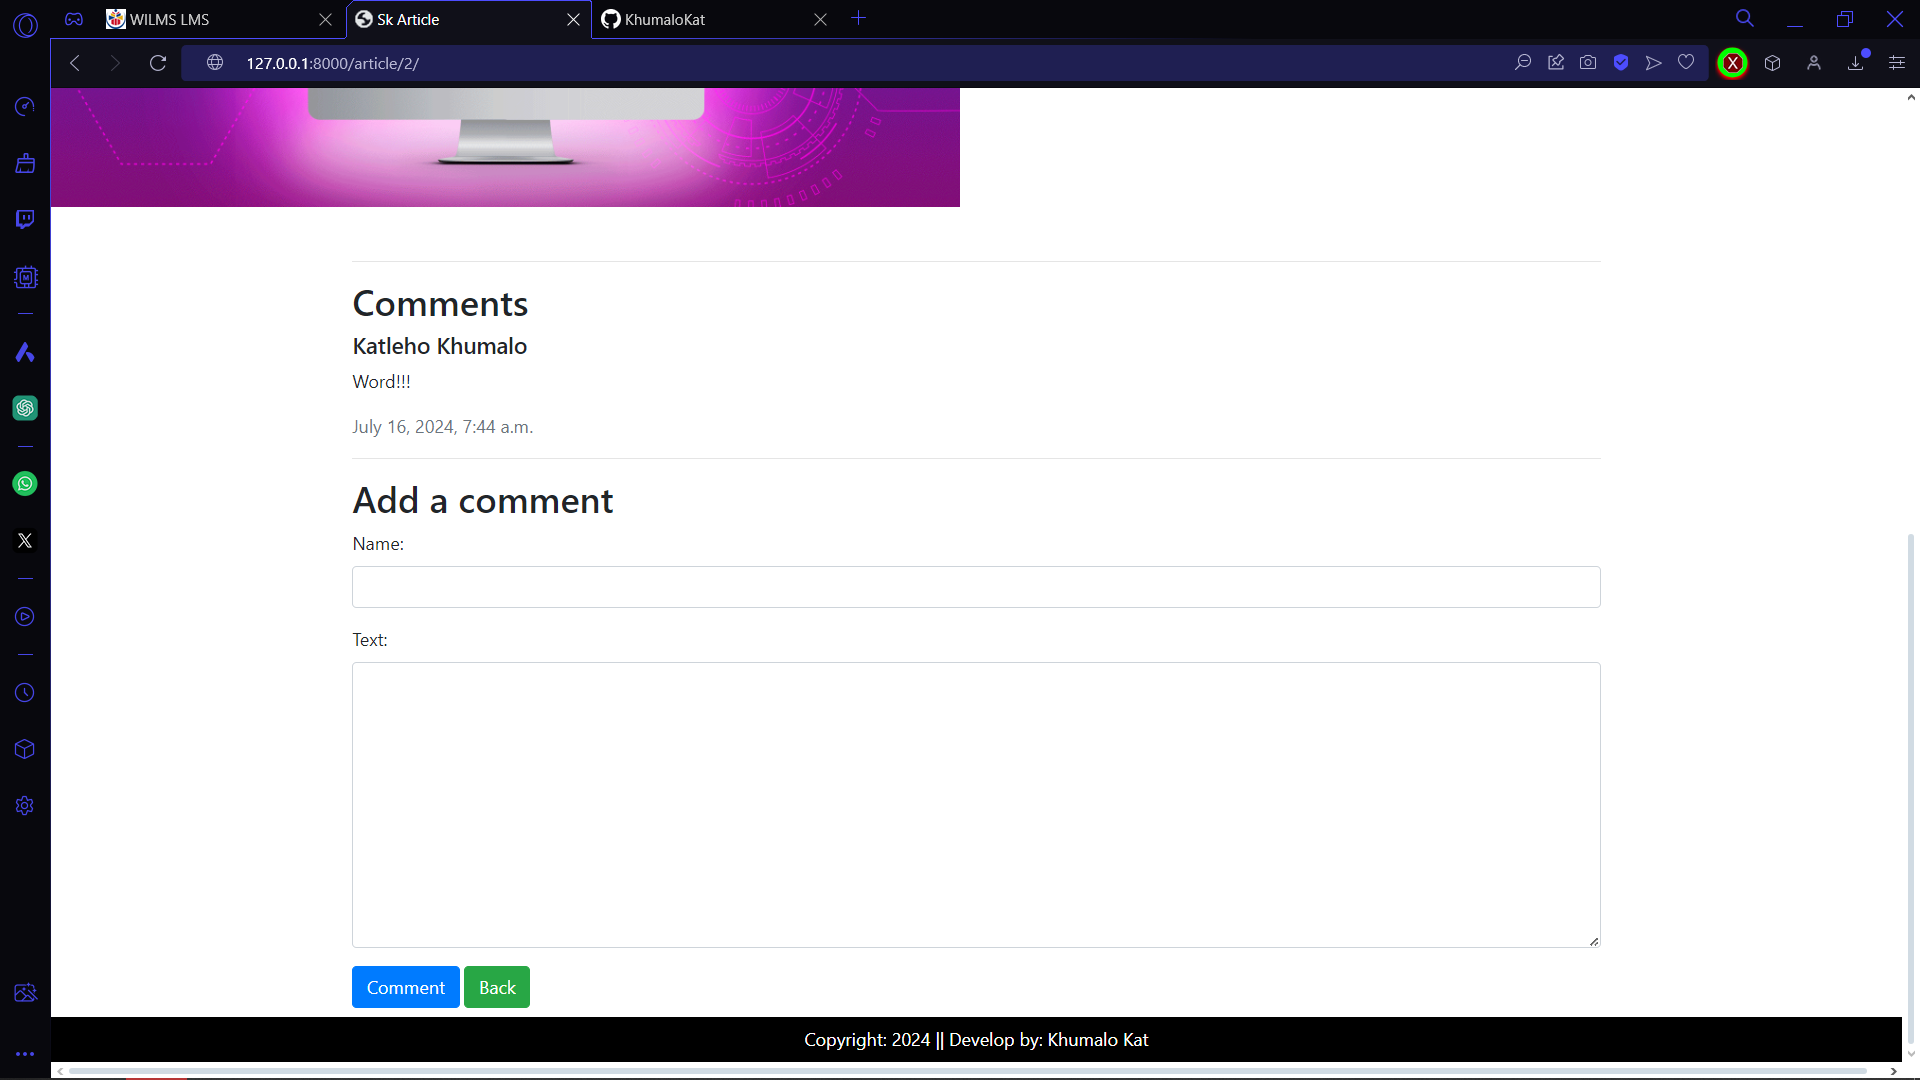
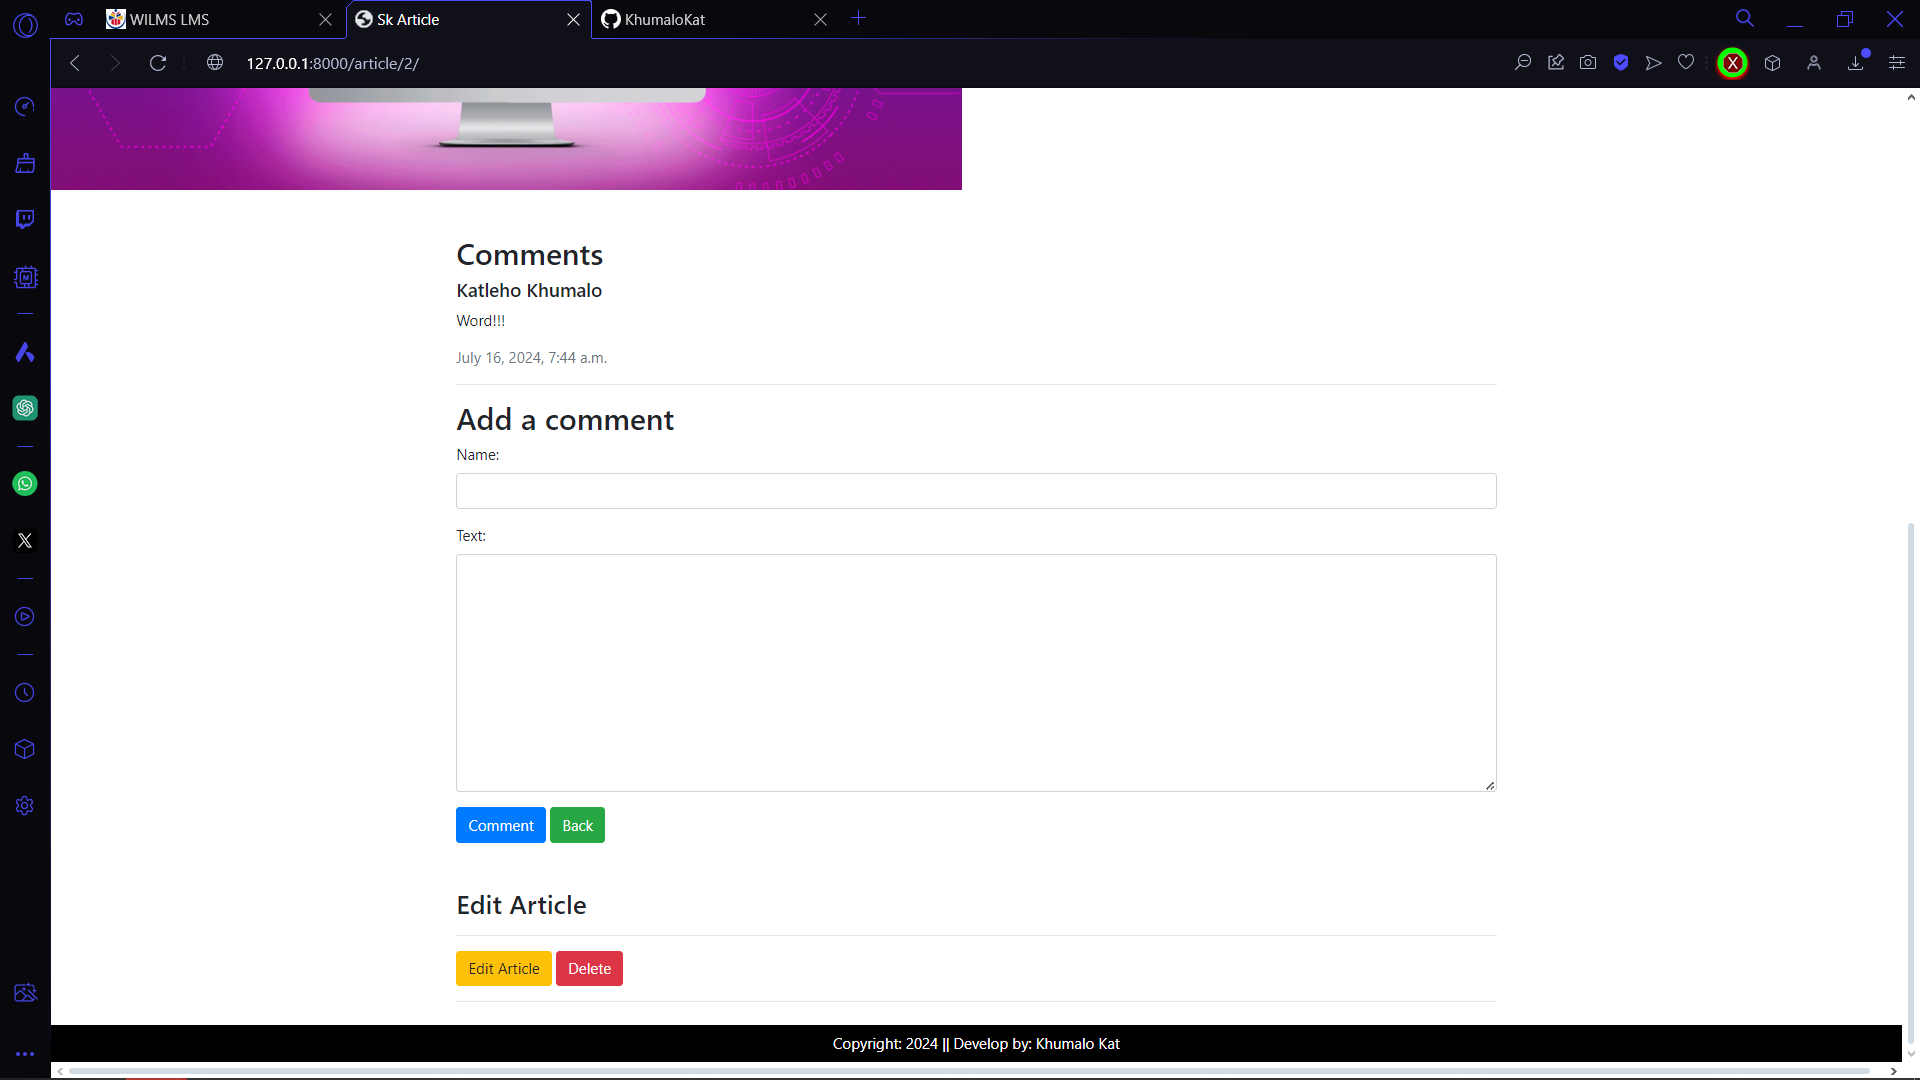
final

diff --git a/blog/app/Templates/article_detail.html b/blog/app/Templates/article_detail.html
@@ -12,7 +12,6 @@
     <div class="col" >{{ article.text }} </div>
 </div>
 <div class="container mt-5">
-    <hr>
 
     <h2>Comments</h2>
     {% for comment in comments %}
@@ -33,5 +32,18 @@
         {{ comment_form.as_p }}
         <button type="submit" class="btn btn-primary">Comment</button> <a href="/" class="btn btn-success">Back</a>
     </form>
+</div>
+
+<div class="container mt-5">
+    <h3>Edit Article</h3>
+
+    <hr>
+        
+    {% if request.user.is_authenticated %}
+    <a href="{% url 'update_article' article.pk %}" class="btn btn-warning">Edit Article</a> <a href="{% url 'delete_article' article.pk %}" class="btn btn-danger">Delete</a>
+
+    {% endif %}
+
+<hr>
 </div>
 {% endblock content %}

diff --git a/blog/app/Templates/delete.html b/blog/app/Templates/delete.html
@@ -1,0 +1,15 @@
+<!-- delete_article_confirm.html -->
+{% extends 'index.html' %}
+
+{% block content %}
+<div class="container mt-5">
+    <h1>Delete Article</h1>
+    <p>Are you sure you want to delete "{{ article.title }}"?</p>
+    <form method="post">
+        {% csrf_token %}
+        <button type="submit" class="btn btn-danger">Confirm Delete</button>
+        <a href="{% url 'article_detail' article.pk %}" class="btn btn-success">Cancel</a>
+    </form>
+</div>
+{% endblock content %}
+ 

diff --git a/blog/app/Templates/update.html b/blog/app/Templates/update.html
@@ -1,0 +1,12 @@
+{% extends 'index.html' %}
+
+{% block content %}
+<div class="container mt-5">
+    <h1>Update Article</h1>
+    <form method="post" enctype="multipart/form-data">
+        {% csrf_token %}
+        {{ form.as_p }}
+        <button type="submit" class="btn btn-primary">Update Article</button>
+    </form>
+</div>
+{% endblock content %}

diff --git a/blog/app/views.py b/blog/app/views.py
@@ -1,4 +1,5 @@
 from django.shortcuts import render, get_object_or_404,redirect
+from django.contrib.auth.decorators import login_required
 from .models import Article,Comment
 from .forms import ArticleForm, CommentForm
 
@@ -30,6 +31,26 @@ def article_detail(request, pk):
     })
 
 
+@login_required
+def update_article(request, pk):
+    article = get_object_or_404(Article, pk=pk)
+    if request.method == 'POST':
+        form = ArticleForm(request.POST, request.FILES, instance=article)
+        if form.is_valid():
+            form.save()
+            return redirect('article_detail', pk=article.pk)
+    else:
+        form = ArticleForm(instance=article)
+    return render(request, 'update.html', {'form': form})
+
+@login_required
+def delete_article(request, pk):
+    article = get_object_or_404(Article, pk=pk)
+    if request.method == 'POST':
+        article.delete()
+        return redirect('home')
+    return render(request, 'delete.html', {'article': article})
+
 def add(request):
     if request.method == 'POST':
         form = ArticleForm(request.POST, request.FILES)
@@ -38,7 +59,7 @@ def add(request):
             return redirect('home')
     else:
         form = ArticleForm()
-    return render(request, 'addArt.html', {'form': form})
+    return render(request, 'add.html', {'form': form})
 
 
 

diff --git a/blog/app/urls.py b/blog/app/urls.py
@@ -7,6 +7,8 @@ from . import views
 urlpatterns = [
     path('', views.home, name='home'),
     path('article/<int:pk>/', views.article_detail, name='article_detail'),
+    path('update_article/<int:pk>/', views.update_article, name='update_article'),
+    path('delete_article/<int:pk>/', views.delete_article, name='delete_article'),
     path('add/', views.add, name='add'),
 
 ]
